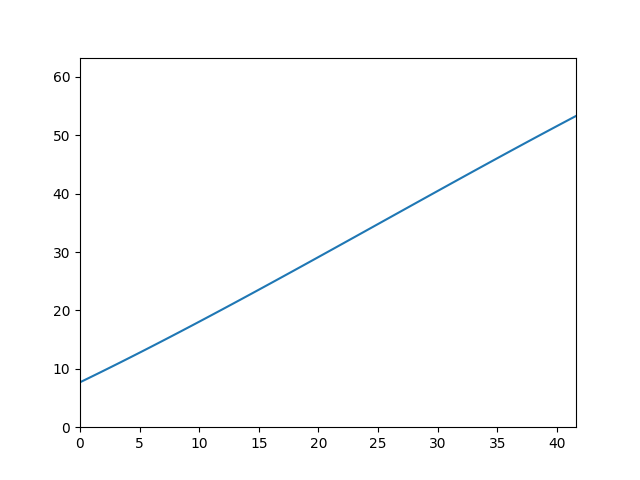
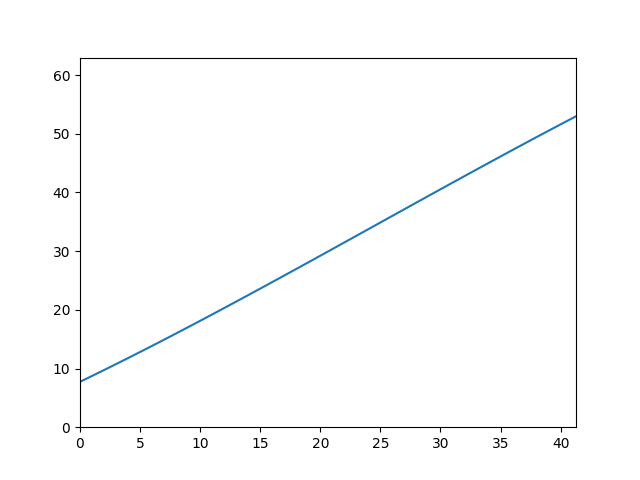
Fix data and reanalyze

diff --git a/derailleurs/Shimano Tiagra 4600 10-Speed/default.htm b/derailleurs/Shimano Tiagra 4600 10-Speed/default.htm
@@ -25,15 +25,15 @@ Shimano Tiagra 4600 10-Speed
   </tr>
   <tr>
     <th>Curve Coefficients</th>
-    <td>11.50, 1.662, 0.01796, -0.000893</td>
+    <td>11.46, 1.664, 0.01804, -0.000904</td>
   </tr>
   <tr>
     <th>Physical Low Limit</th>
-    <td>11.50</td>
+    <td>11.46</td>
   </tr>
   <tr>
     <th>Physical High Limit</th>
-    <td>49.76</td>
+    <td>49.72</td>
   </tr>
   <tr>
     <th>Pull Ratio Averaged Across Pulling Runs</th>
@@ -41,15 +41,15 @@ Shimano Tiagra 4600 10-Speed
   </tr>
   <tr>
     <th>Pull Ratio Averaged Across Relaxing Runs</th>
-    <td>1.685 +/- 0.001</td>
+    <td>1.679 +/- 0.015</td>
   </tr>
   <tr>
     <th>Pull Ratio Averaged Across All Runs</th>
-    <td>1.675 +/- 0.018</td>
+    <td>1.674 +/- 0.017</td>
   </tr>
   <tr>
     <th>Pull Ratio 95% Confidence Interval</th>
-    <td>1.657 to 1.693</td>
+    <td>1.657 to 1.691</td>
   </tr>
   
   <tr>
@@ -122,6 +122,16 @@ Shimano Tiagra 4600 10-Speed
 <a href="pullratio/2024-07-31 20-18 Pulling.csv">Raw Measurement Data</a>
 <figure>
 <img src="pullratio/2024-07-31 20-18 Pulling.png"/>
+<figcaption>Data and best fit line, excluding points taken at limits</figcaption>
+</figure>
+</section>
+
+
+<section>
+<h2>2024-07-31 20-23 Relaxing</h2>
+<a href="pullratio/2024-07-31 20-23 Relaxing.csv">Raw Measurement Data</a>
+<figure>
+<img src="pullratio/2024-07-31 20-23 Relaxing.png"/>
 <figcaption>Data and best fit line, excluding points taken at limits</figcaption>
 </figure>
 </section>

diff --git a/derailleurs/Shimano CUES 9-Speed/default.htm b/derailleurs/Shimano CUES 9-Speed/default.htm
@@ -25,15 +25,15 @@ Shimano CUES 9-Speed
   </tr>
   <tr>
     <th>Curve Coefficients</th>
-    <td>7.69, 0.989, 0.00570, -0.000075</td>
+    <td>7.74, 0.988, 0.00589, -0.000079</td>
   </tr>
   <tr>
     <th>Physical Low Limit</th>
-    <td>7.69</td>
+    <td>7.74</td>
   </tr>
   <tr>
     <th>Physical High Limit</th>
-    <td>53.31</td>
+    <td>52.97</td>
   </tr>
   <tr>
     <th>Pull Ratio Averaged Across Pulling Runs</th>
@@ -41,15 +41,15 @@ Shimano CUES 9-Speed
   </tr>
   <tr>
     <th>Pull Ratio Averaged Across Relaxing Runs</th>
-    <td>1.119 +/- 0.012</td>
+    <td>1.119 +/- 0.010</td>
   </tr>
   <tr>
     <th>Pull Ratio Averaged Across All Runs</th>
-    <td>1.113 +/- 0.013</td>
+    <td>1.114 +/- 0.012</td>
   </tr>
   <tr>
     <th>Pull Ratio 95% Confidence Interval</th>
-    <td>1.100 to 1.125</td>
+    <td>1.101 to 1.126</td>
   </tr>
   
   
@@ -112,6 +112,16 @@ Shimano CUES 9-Speed
 <a href="pullratio/2024-05-17 17-22 Pulling.csv">Raw Measurement Data</a>
 <figure>
 <img src="pullratio/2024-05-17 17-22 Pulling.png"/>
+<figcaption>Data and best fit line, excluding points taken at limits</figcaption>
+</figure>
+</section>
+
+
+<section>
+<h2>2024-05-17 17-31 Relaxing</h2>
+<a href="pullratio/2024-05-17 17-31 Relaxing.csv">Raw Measurement Data</a>
+<figure>
+<img src="pullratio/2024-05-17 17-31 Relaxing.png"/>
 <figcaption>Data and best fit line, excluding points taken at limits</figcaption>
 </figure>
 </section>
